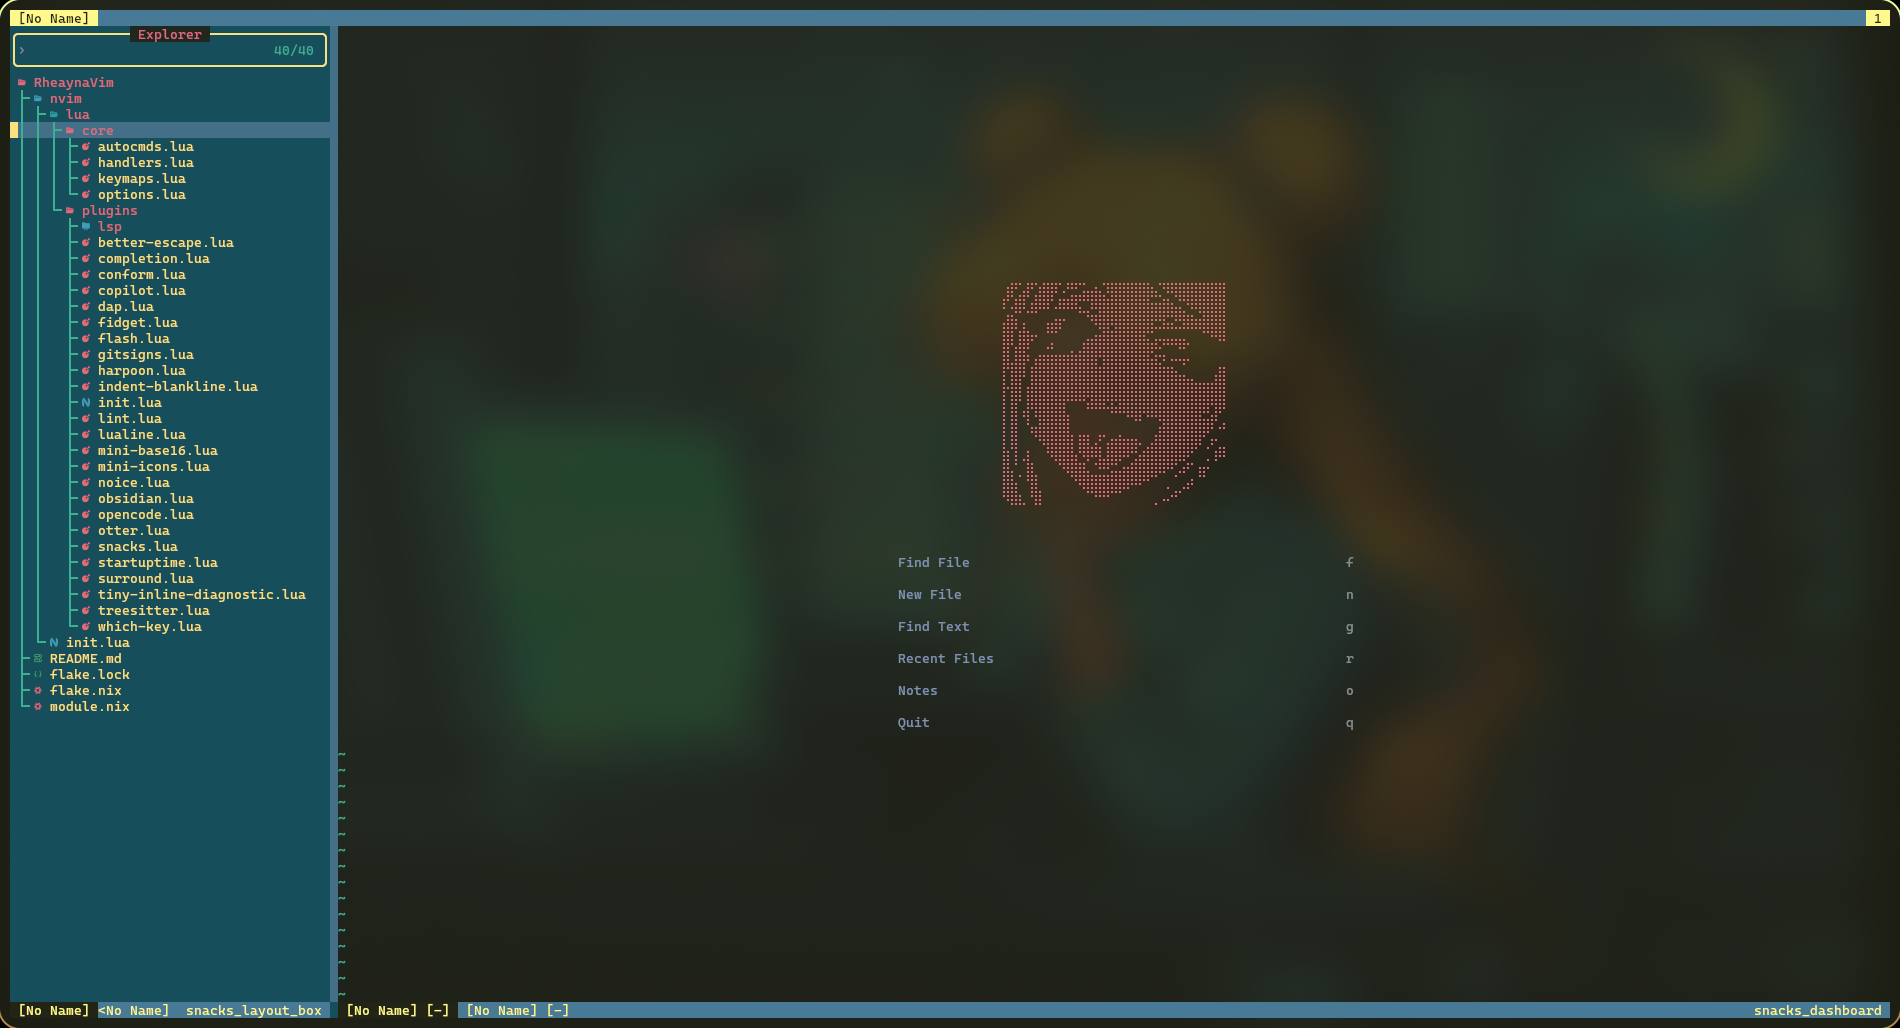
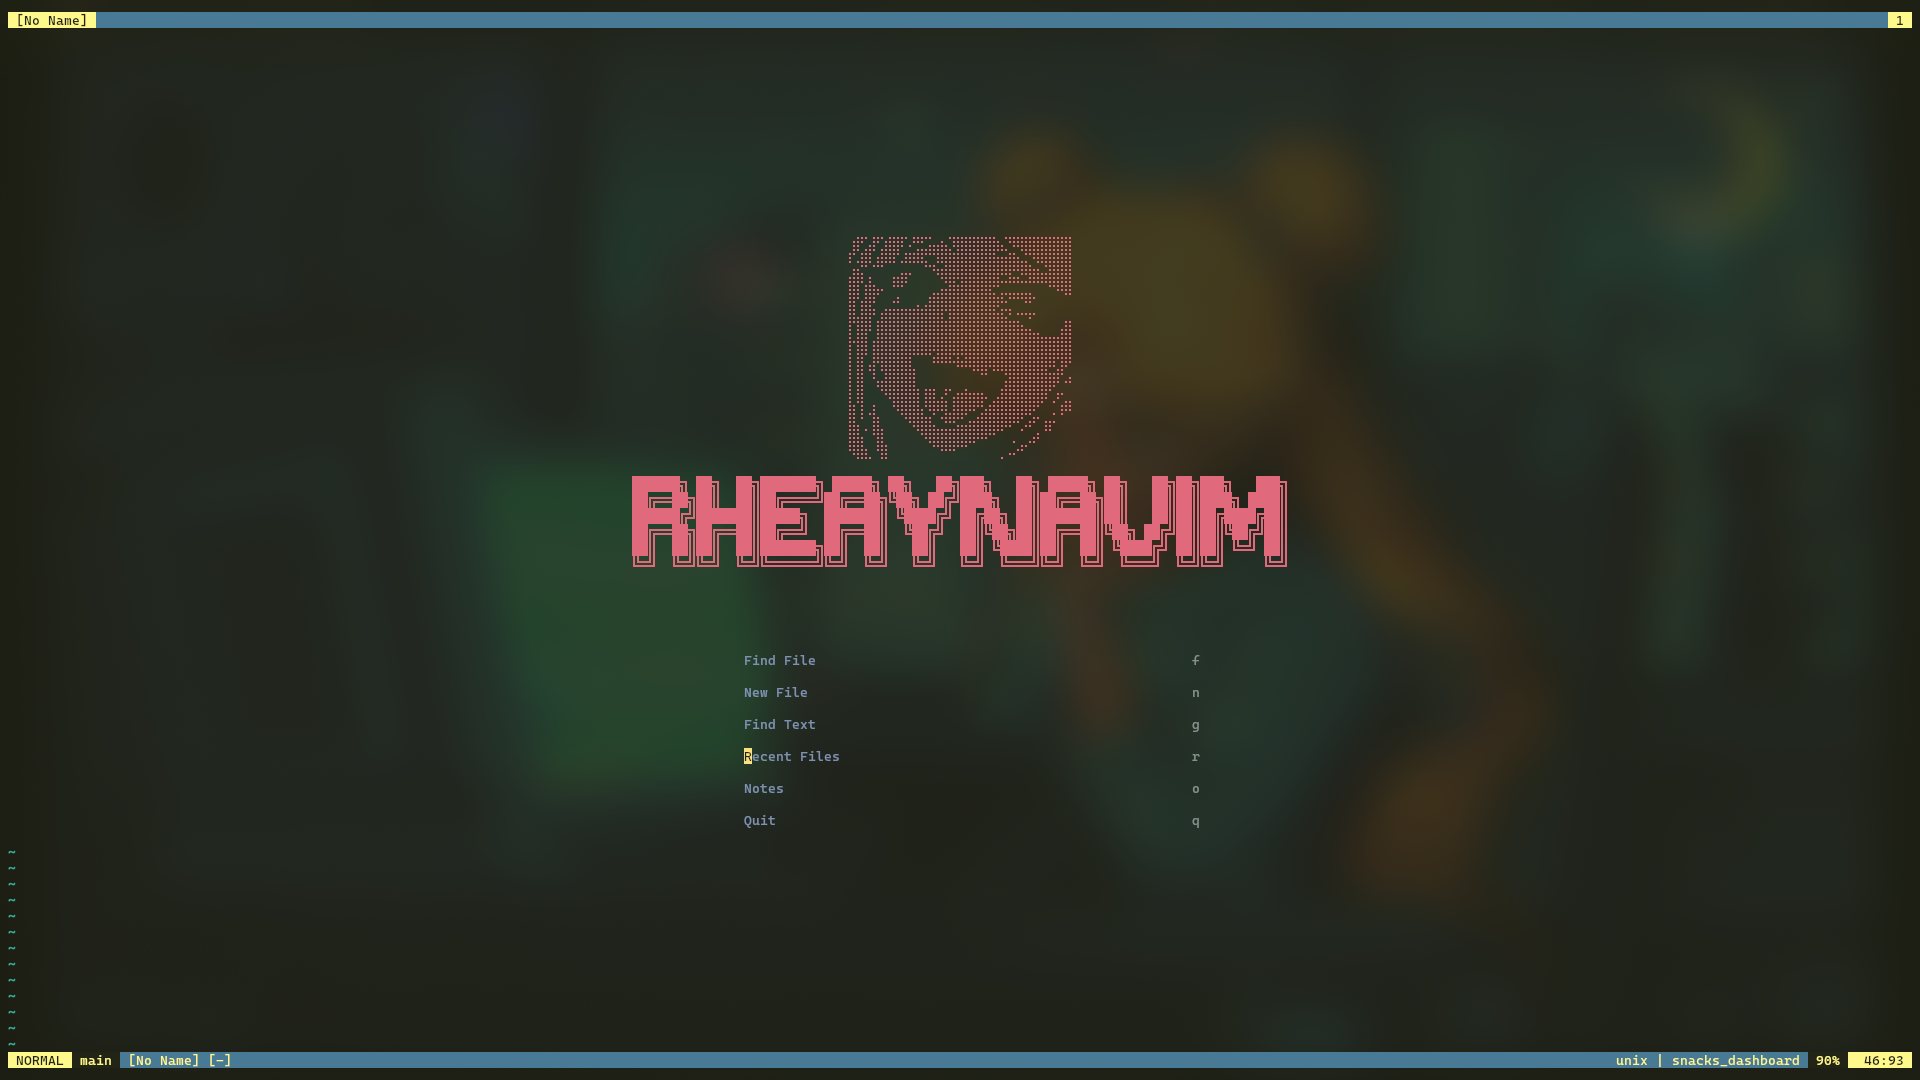
docs: update README screenshots and snacks dashboard
- Updates a screenshot and adds a second one to the README.
- Adds an ASCII art logo to the Snacks plugin dashboard configuration.

diff --git a/README.md b/README.md
@@ -10,3 +10,5 @@ nix run github:Immelancholy/RheaynaVim#default
 ```
 
 ![ss1](https://raw.githubusercontent.com/Immelancholy/RheaynaVim/refs/heads/main/.screenshots/ss1.png)
+
+![ss2](https://raw.githubusercontent.com/Immelancholy/RheaynaVim/refs/heads/main/.screenshots/ss2.png)
